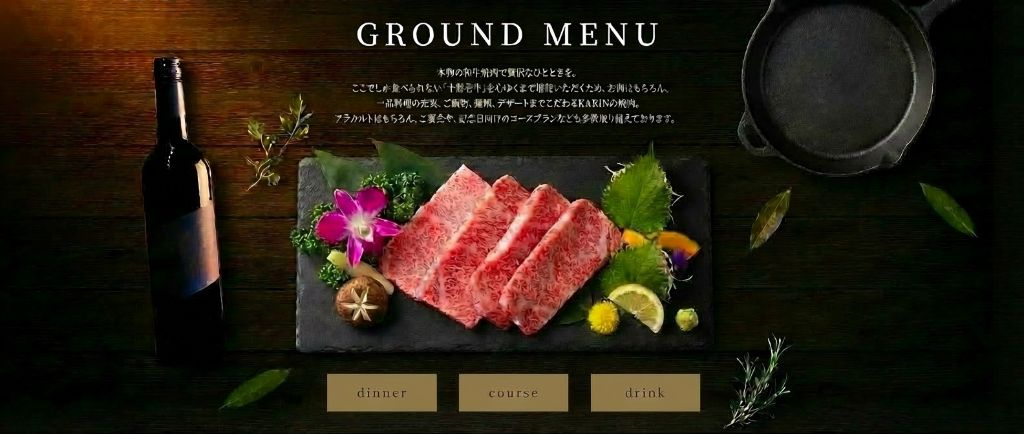
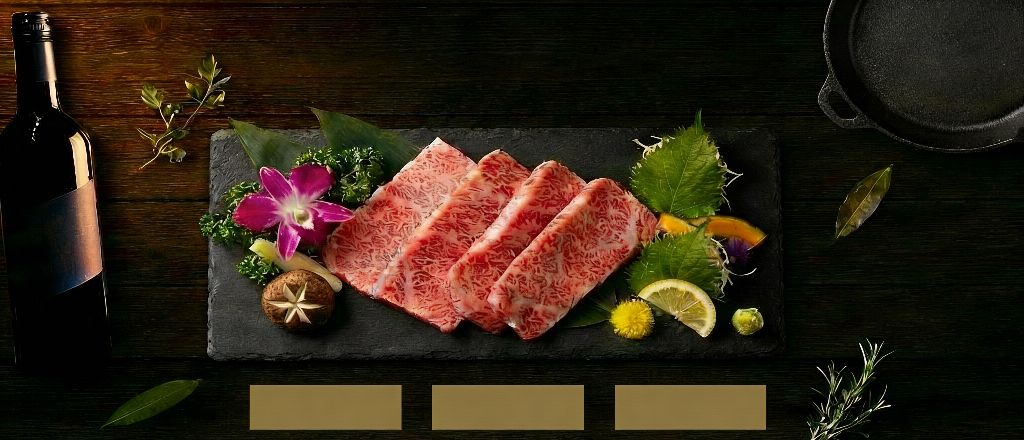
Replace Ground Menu background: cleaner centered meat presentation with darker aesthetic

diff --git a/src/index.tsx b/src/index.tsx
@@ -255,7 +255,7 @@ app.get('/', (c) => {
             display: flex;
             align-items: center;
             background: linear-gradient(rgba(0, 0, 0, 0.6), rgba(0, 0, 0, 0.6)), 
-                        url('/ground-menu-bg-new.jpg');
+                        url('/ground-menu-bg.jpg');
             background-size: cover;
             background-position: center;
             background-attachment: fixed;
